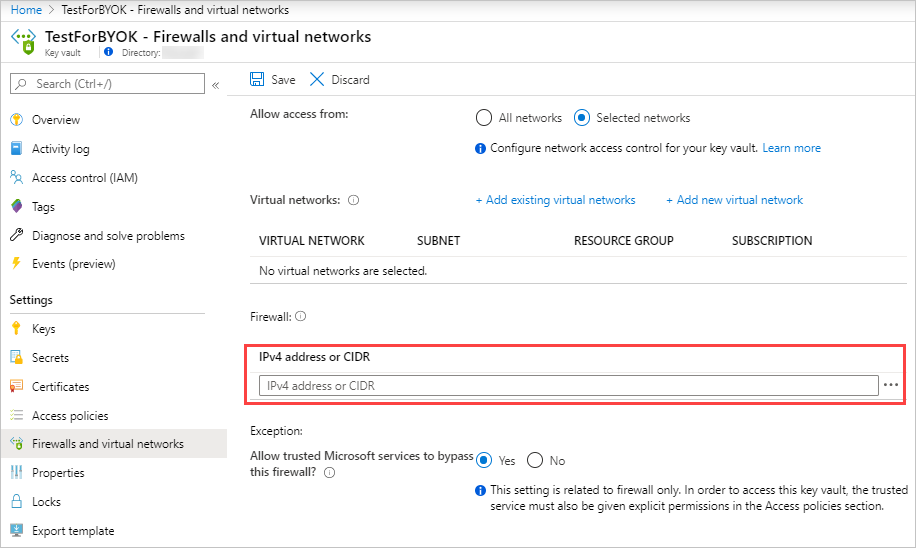
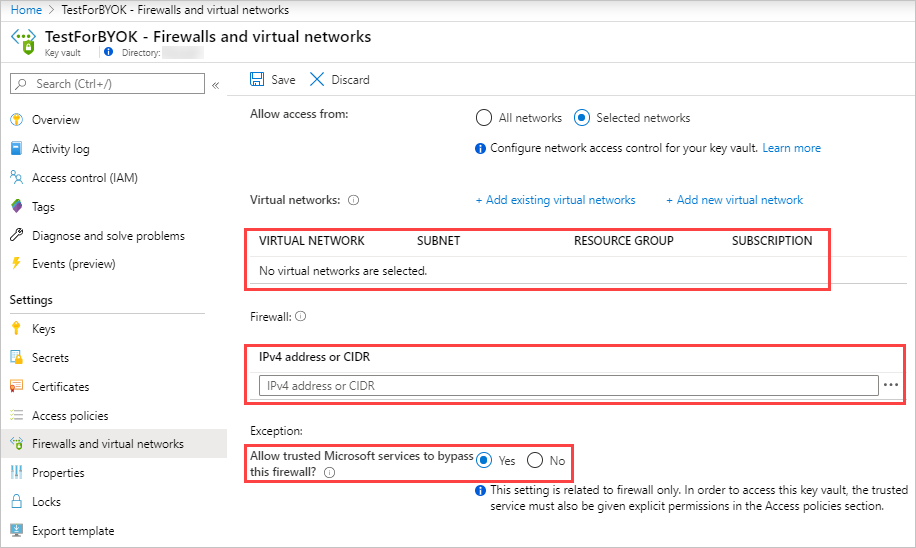
Update with latest info

diff --git a/CloudAppSecurityDocs/encrypt-data-with-own-key.md b/CloudAppSecurityDocs/encrypt-data-with-own-key.md
@@ -29,6 +29,8 @@ Cloud App Security takes your security and privacy seriously. Therefore, once Cl
 
 You must register the **Microsoft Cloud App Security - BYOK** app in your tenant's Azure Active Directory (Azure AD).
 
+**//TBD: Need updated First party app name**
+
 ### To register the app
 
 1. Install [Azure Active Directory PowerShell for Graph](https://docs.microsoft.com/powershell/azure/active-directory/install-adv2).
@@ -37,13 +39,17 @@ You must register the **Microsoft Cloud App Security - BYOK** app in your tenant
 
     ``` Powershell
     Connect-AzureAD
-    New-AzureADServicePrincipal -AppId df29d221-6835-4718-9d9b-fbef8e951827
-    Set-AzureADServicePrincipal -ObjectId 6df48023-381c-4587-85e2-467d67670e49  -AccountEnabled true
+    New-AzureADServicePrincipal -AppId 61fc00cf-6d25-4d73-ba42-77a7ecec2b31
+    Set-AzureADServicePrincipal -ObjectId <object_id> -AccountEnabled true
     ```
+
+    Where *<object_id>* is the object ID returned by the previous command (`New-AzureADServicePrincipal`).
+
+**//TBD: Need updated AppId**
 
 > [!NOTE]
 >
-> - Cloud App Security encrypts data at rest for all new tenants as of **//TBD: Yahav to provide {Date place holder}**.
+> - Cloud App Security encrypts data at rest for all new tenants.
 > - Any data that resides in Cloud App Security for more than 48 hours will be encrypted.
 
 ## Deploy your Azure Key Vault key
@@ -67,9 +73,7 @@ You must register the **Microsoft Cloud App Security - BYOK** app in your tenant
 1. Create a [new RSA key](https://docs.microsoft.com/azure-stack/user/azure-stack-key-vault-manage-portal#create-a-key), do the following, and then click **Add**.
 
     > [!NOTE]
-    >
-    > - Only RSA keys are supported.
-    > - You can set up data encryption with an unversioned key or a specific key version. For more information, see [About keys versioning](https://docs.microsoft.com/azure/key-vault/about-keys-secrets-and-certificates#objects-identifiers-and-versioning).
+    > Only RSA keys are supported.
 
     1. Under **Permitted operations**, select the following options:
 
@@ -80,13 +84,19 @@ You must register the **Microsoft Cloud App Security - BYOK** app in your tenant
 
     ![Screenshot showing key settings page](media/byok-kv-key-perms.PNG)
 
-1. Set up the [**soft-delete** behavior](https://docs.microsoft.com/azure/key-vault/key-vault-ovw-soft-delete#soft-delete-behavior) for your Key Vault.
+1. Set up the [soft-delete behavior](https://docs.microsoft.com/azure/key-vault/key-vault-ovw-soft-delete#soft-delete-behavior) for your Key Vault.
 
-1. Set up the [no **purge protection** behavior](https://docs.microsoft.com/azure/key-vault/key-vault-ovw-soft-delete#purge-protection) for your Key Vault.
+1. Set up the [no purge protection behavior](https://docs.microsoft.com/azure/key-vault/key-vault-ovw-soft-delete#purge-protection) for your Key Vault.
 
 1. Optionally, if using a firewall for a selected network, configure the following firewall settings to give Cloud App Security access to the specified key, and then click **Save**:
     1. Make sure no virtual networks are selected.
-    1. Add the following IP addresses: **// TBD: Yahav to provide. Require list of Cloud App Security IP addresses**
+    1. Add the following IP addresses:
+        - 13.66.200.132
+        - 23.100.71.251
+        - 40.78.82.214
+        - 51.105.4.145
+        - 52.166.166.111
+    1. Select **Allow trusted Microsoft services to bypass this firewall**.
 
     ![Screenshot showing firewall configuration](media/byok-kv-firewall.PNG)
 
@@ -96,13 +106,16 @@ When you enable data encryption, Cloud App Security immediately uses your Azure 
 
 ### To enable data encryption
 
-1. In Cloud App Security, in the menu bar, click the settings cog ![settings icon](media/settings-icon.png "settings icon") and select **Settings**.
+1. In Cloud App Security, in the menu bar, click the settings cog ![settings icon](media/settings-icon.png) and select **Settings**.
 
 1. Select the **Data encryption** tab.
 
 1. Click **Enable data encryption**.
 
 1. In the **Azure Key Vault key URI** box, paste the key identifier URI value you copied earlier.
+
+    > [!NOTE]
+    > Cloud App Security always uses the latest key version, regardless of the key version specified by the URI.
 
 1. Once the URI validation has completed, click **Enable**.
 
@@ -113,15 +126,7 @@ When you enable data encryption, Cloud App Security immediately uses your Azure 
 
 ## Key roll handling
 
-**// TBD: Speak to Yahav**
-
-### Using versioned key
-
-**// TBD: Speak to Yahav**
-
-### Using unversioned key
-
-**// TBD: Speak to Yahav**
+Whenever you create new version of the key configured for data encryption, Cloud App Security automatically rolls to the latest version of the key.
 
 ## How to handle data encryption failures
 

diff --git a/CloudAppSecurityDocs/troubleshooting-data-encryption.md b/CloudAppSecurityDocs/troubleshooting-data-encryption.md
@@ -33,12 +33,11 @@ The following table lists the possible scenarios that can cause data encryption 
 
 | Scenario | Actions |
 | --- | --- |
-| <a name="missing-kv-permissions"></a>**Missing Key Vault permissions** | In the selected Key Vault, under access policy, make sure that the following key permissions are selected:<br />Under **Key management operations**<br />- List<br />Under **Cryptographic operations**<br />- Wrap key<br />- Unwrap key |
-| <a name="firewall-block"></a>**Azure Key Vault firewall blocking access to key** | In the selected Key Vault, make sure that the filewall is configured with the following IP addresses:<br />**// Require list of Cloud App Security IP addresses** |
-| <a name="missing-key-permissions"></a>**Missing key permissions** | In the selected key, make sure that the following operations are permitted:<br />- Wrap key<br />- Unwrap key<br /> |
-| <a name="key-not-enabled"></a>**Encryption key is not enabled** | In the selected key, make sure that the key is enabled.<br />![Screenshot showing key enable option](media/byok-kv-key-enabled.PNG) |
-| <a name="key-not-active"></a>**Encryption key is not active** | In the selected key, make sure that the activation date and time is prior to the current date and time.<br />![Screenshot showing key activation date](media/byok-kv-key-activation-date.PNG) |
-| <a name="key-expired"></a>**Encryption key has expired** | In the selected key, make sure that the expiration date and time has not passed.<br />![Screenshot showing key expiration date](media/byok-kv-key-expiration-date.PNG) |
+| <a name="missing-kv-key-permissions"></a>**Missing Key Vault or key permissions** | In the selected Key Vault, under access policy, make sure that the following key permissions are selected:<br />Under **Key management operations**<br />- List<br />Under **Cryptographic operations**<br />- Wrap key<br />- Unwrap key<br /><br />For the selected key, make sure you are using an RSA encryption and that the following operations are permitted:<br />- Wrap key<br />- Unwrap key<br /> |
+| <a name="firewall-block"></a>**Azure Key Vault firewall blocking access to key** | In the selected Key Vault, make sure that the filewall is configured with the following IP addresses:<br />- 13.66.200.132<br />- 23.100.71.251<br />- 40.78.82.214<br />- 51.105.4.145<br />- 52.166.166.111 |
+| <a name="key-not-enabled"></a>**Encryption key is not enabled** | In the selected key's settings, make sure that the key is enabled.<br />![Screenshot showing key enable option](media/byok-kv-key-enabled.PNG) |
+| <a name="key-not-active"></a>**Encryption key is not active** | In the selected key's settings, make sure that the activation date and time is prior to the current date and time.<br />![Screenshot showing key activation date](media/byok-kv-key-activation-date.PNG) |
+| <a name="key-expired"></a>**Encryption key has expired** | In the selected key's settings, make sure that the expiration date and time has not passed.<br />![Screenshot showing key expiration date](media/byok-kv-key-expiration-date.PNG) |
 | <a name="key-not-found"></a>**Encryption key not found or deleted** | Verify that the selected key exists in your Key Vault. If key was deleted, recover and enable it again. If the key was moved to another Key Vault, move it back to the selected Key Vault. |
 
 [!INCLUDE [Open support ticket](includes/support.md)]
